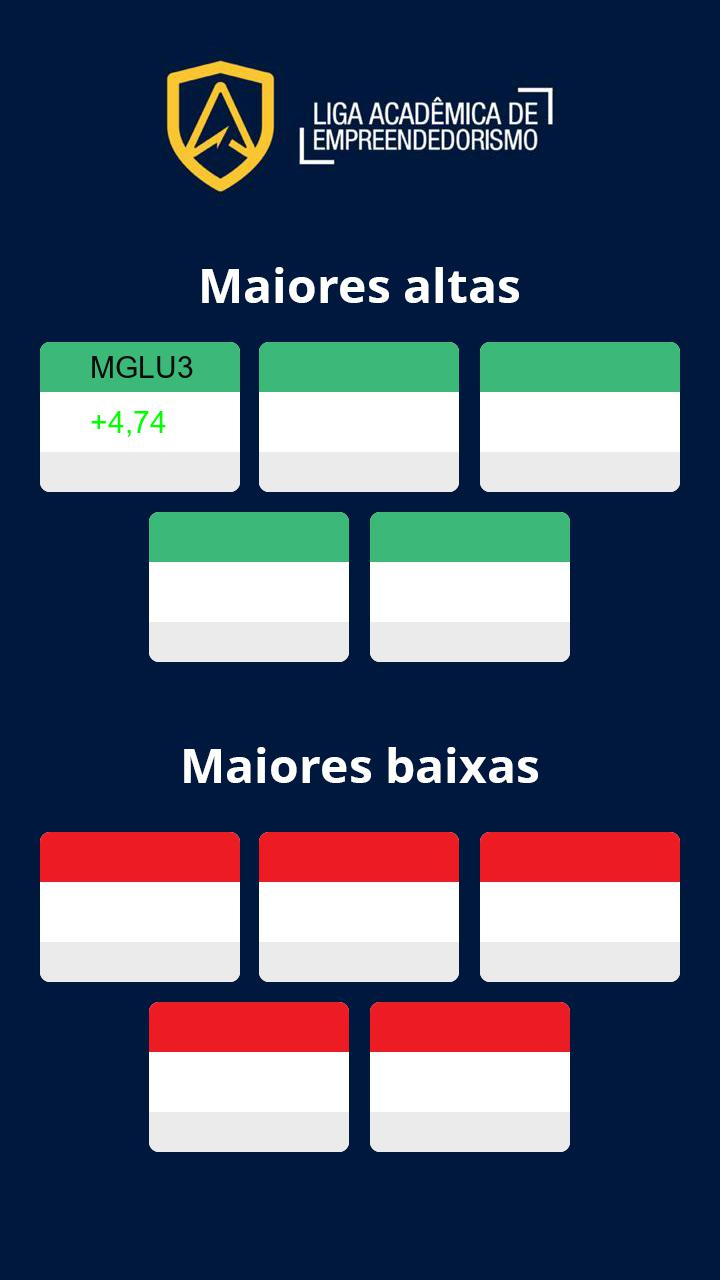
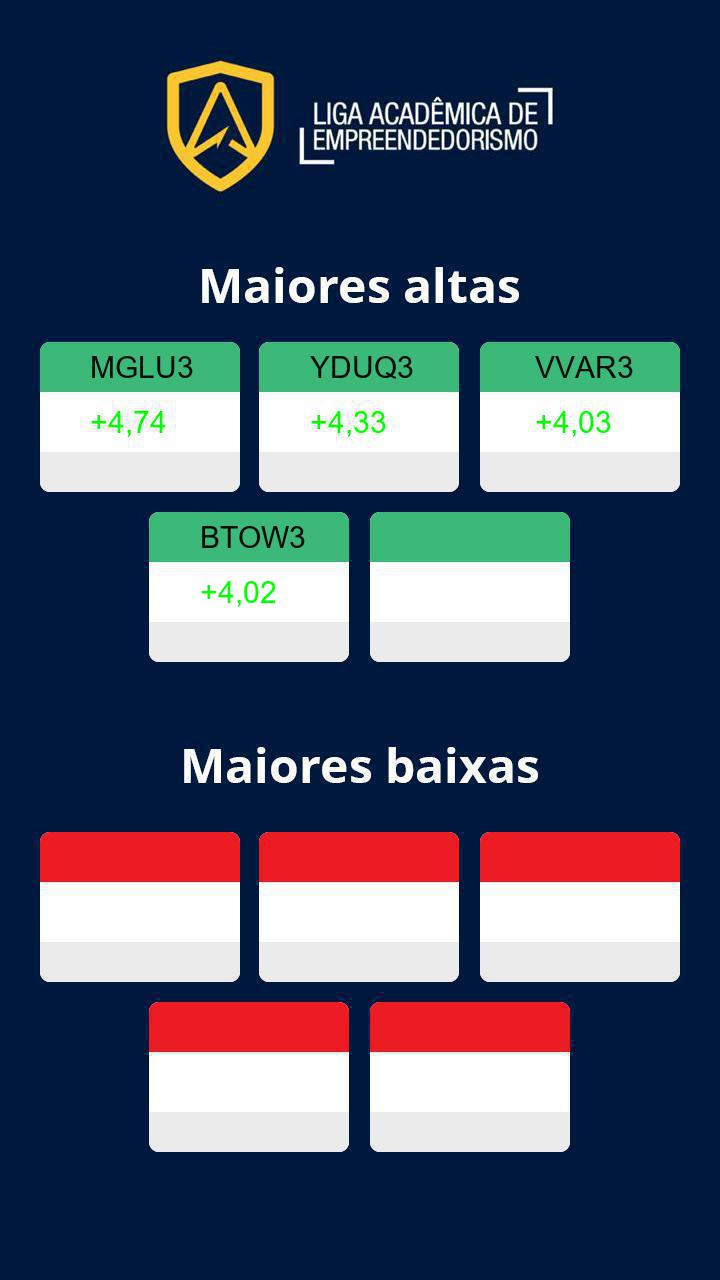
adicionando mais ativos

Changed region(s): [[0.7333, 0.2812, 0.8861, 0.3438], [0.4278, 0.2812, 0.5806, 0.3438], [0.275, 0.4062, 0.4278, 0.4688]]

diff --git a/objeto.py b/objeto.py
@@ -20,26 +20,46 @@ def handle(msg):
             'posicao': [90, 350],
             'porcetagem': mensagemTratada[10],
             'posicaoPorcentagem': [90, 405],
+            'cor':(0,255,0)
         },
         {
             'ativo': mensagemTratada[1],
             'posicao': [310, 350],
             'porcetagem': mensagemTratada[11],
             'posicaoPorcentagem': [310, 405],
+            'cor':(0,255,0)
+        },
+
+         {
+            'ativo': mensagemTratada[2],
+            'posicao': [535, 350],
+            'porcetagem': mensagemTratada[12],
+            'posicaoPorcentagem': [535, 405],
+            'cor':(0,255,0)
+        },
+        {
+            'ativo': mensagemTratada[3],
+            'posicao': [200, 520],
+            'porcetagem': mensagemTratada[13],
+            'posicaoPorcentagem': [200, 575],
+            'cor':(0,255,0)
         },
         ]
 
         
-
-        for i in range(1):
-            imagem = Image.open('fundo.jpg')
+        imagem = Image.open('fundo.jpg')
+        imagem.save('pronto.jpg')
+        
+        for i in range(4):
+            imagem = Image.open('pronto.jpg')
             draw = ImageDraw.Draw(imagem)
             font = ImageFont.truetype("arial.ttf", 30)
 
             draw.text((lista[i]['posicao'][0],lista[i]['posicao'][1]), '{}'.format(lista[i]['ativo']), (12, 12, 12), font=font)
-            draw.text((lista[i]['posicaoPorcentagem'][0], lista[i]['posicaoPorcentagem'][1]), '{}'.format(lista[i]['porcetagem']), (0, 255, 0), font=font)
+            draw.text((lista[i]['posicaoPorcentagem'][0], lista[i]['posicaoPorcentagem'][1]), '{}'.format(lista[i]['porcetagem']), lista[i]['cor'], font=font)
 
-        imagem.save('pronto.jpg')
+            imagem.save('pronto.jpg')
+        
 
 
 MessageLoop(bot, handle).run_as_thread()
